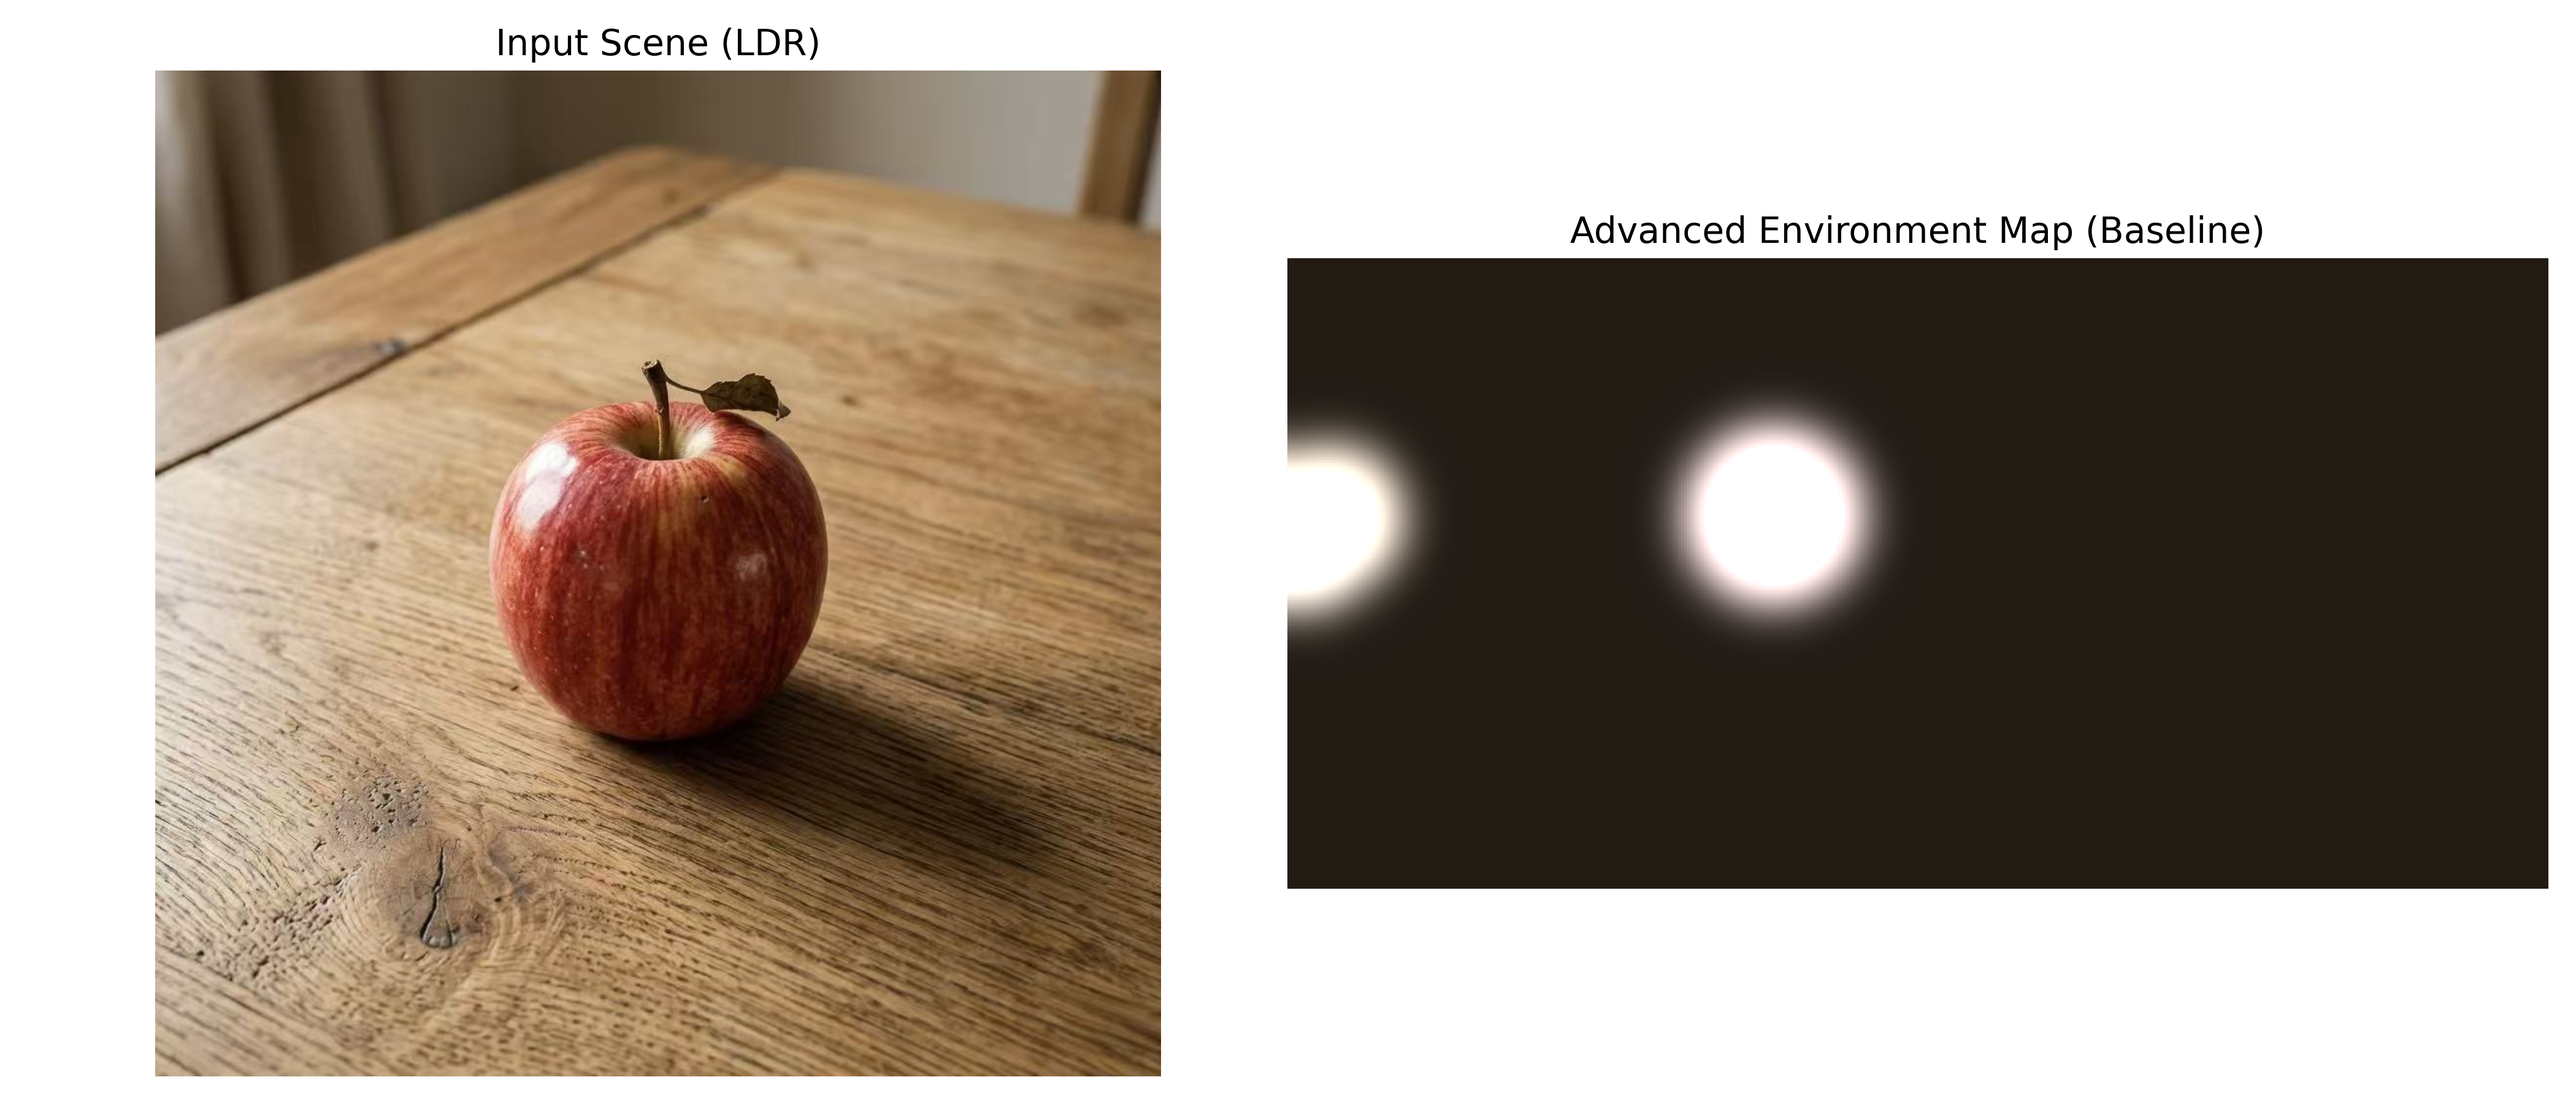
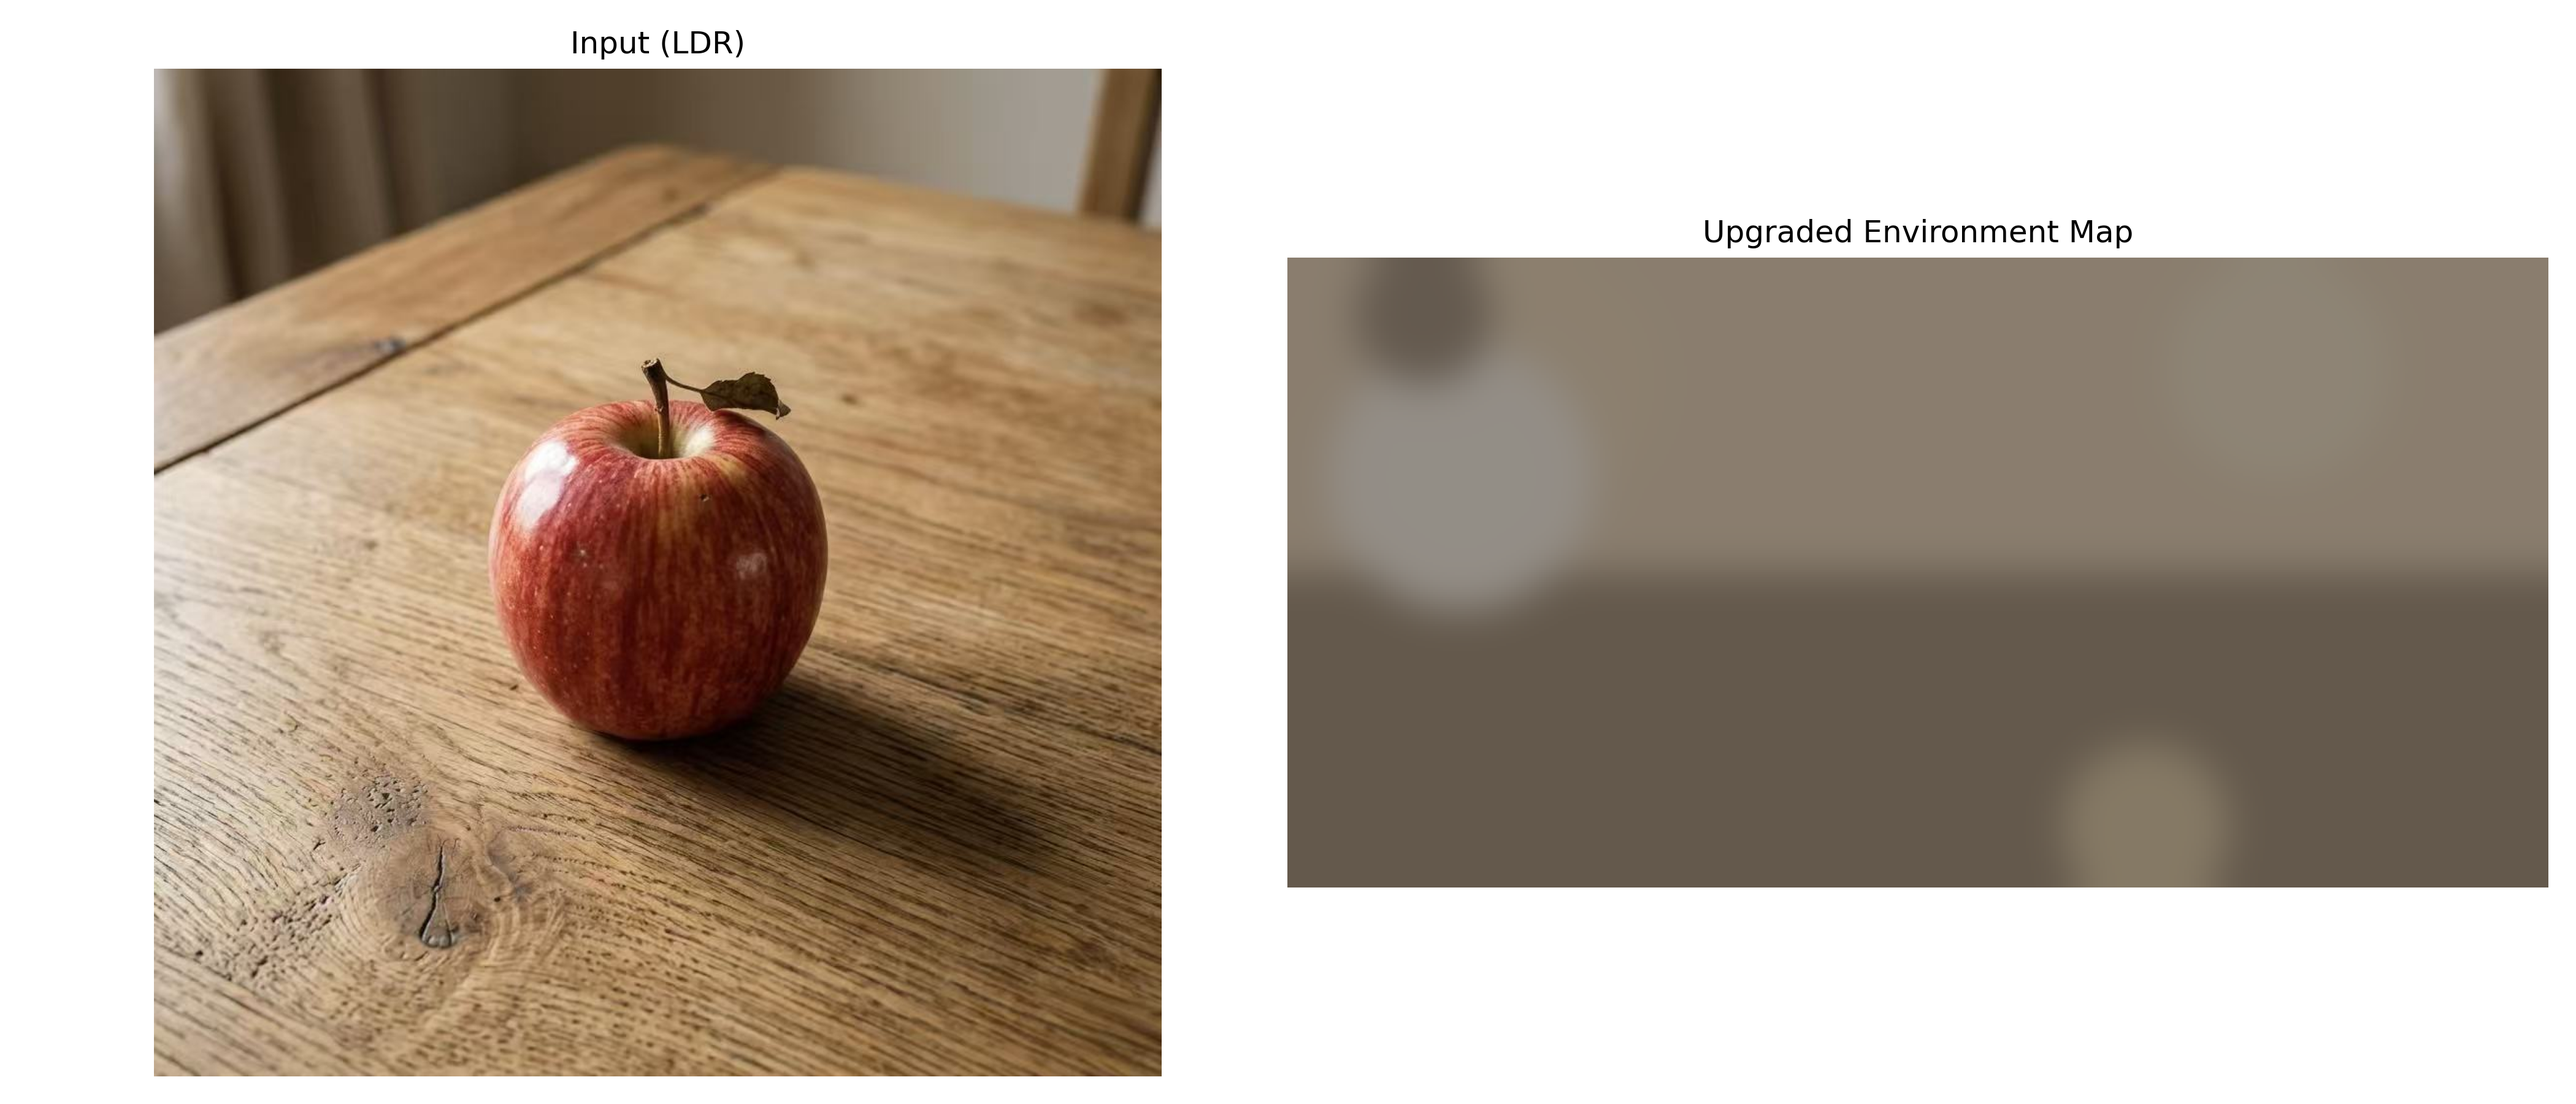
1

diff --git a/predict.py b/predict.py
@@ -1,88 +1,177 @@
 import numpy as np
 import cv2
 import matplotlib.pyplot as plt
+import torch
+import torch.nn.functional as F
+from matplotlib import rcParams
 
 
-def advanced_lighting_estimation(image_path):
-    # 1. 兼容中文路径读取
-    try:
-        raw_data = np.fromfile(image_path, dtype=np.uint8)
-        img = cv2.imdecode(raw_data, cv2.IMREAD_COLOR)
-    except Exception as e:
-        return print(f"读取文件出错: {e}")
+# ==================== 📊 表格生成函数 ====================
+def save_metrics_table_png(light_dir, intensity, dynamic_range, contrast, softness, shadow_coherence):
+    import matplotlib.pyplot as plt
+    from matplotlib import rcParams
 
+    # 设置字体，优先使用微软雅黑，降级为黑体
+    rcParams['font.sans-serif'] = ['Microsoft YaHei', 'SimHei', 'Arial']
+    rcParams['axes.unicode_minus'] = False
+
+    # 优化数据格式：增加中英文对照，优化小数位
+    data = [
+        ["主光源方向 (Direction)", f"[{light_dir[0]:.2f}, {light_dir[1]:.2f}, {light_dir[2]:.2f}]", "3D空间方向向量"],
+        ["光照强度 (Intensity)", f"{intensity:.3f}", "全局亮度特征 (0-1)"],
+        ["动态范围 (Dynamic Range)", f"{dynamic_range:.3f}", "极值亮度差异"],
+        ["全局对比度 (Contrast)", f"{contrast:.3f}", "光照层次与深度"],
+        ["光照柔和度 (Softness)", f"{softness:.2e}", "环境图方差 (越小越柔)"],  # 使用科学计数法
+        ["阴影一致性 (Coherence)", f"{shadow_coherence:.3f}", "梯度场平均模长"]
+    ]
+
+    # 调整画布比例，适合 PPT 宽屏
+    fig, ax = plt.subplots(figsize=(10, 4), dpi=300)
+    ax.axis('off')
+
+    # 创建表格，使用 bbox 占满画布空间
+    table = ax.table(
+        cellText=data,
+        colLabels=["评估指标 (Metrics)", "测量数值 (Values)", "物理意义 (Description)"],
+        cellLoc='center',
+        loc='center',
+        bbox=[0, 0, 1, 1]
+    )
+
+    table.auto_set_font_size(False)
+    table.set_fontsize(13)
+
+    # =============== 核心：绘制学术三线表 ===============
+    for (row, col), cell in table.get_celld().items():
+        cell.set_edgecolor('none')  # 先移除所有默认边框
+
+        # 表头 (第一条和第二条线)
+        if row == 0:
+            cell.set_text_props(weight='bold', color='#2c3e50')
+            cell.visible_edges = 'BT'  # 顶部(Top)和底部(Bottom)画线
+            cell.set_edgecolor('#000000')
+            cell.set_linewidth(1.5)
+            cell.set_facecolor('#f8f9fa')  # 表头浅灰色背景
+
+        # 表底 (第三条线)
+        elif row == len(data):
+            cell.visible_edges = 'B'  # 底部(Bottom)画线
+            cell.set_edgecolor('#000000')
+            cell.set_linewidth(1.5)
+
+        # 数据行：添加斑马纹以增强 PPT 上的可读性
+        else:
+            if row % 2 == 0:
+                cell.set_facecolor('#fdfdfd')
+            else:
+                cell.set_facecolor('#f4f6f8')
+
+    plt.title("图 X：环境光照估计量化评估结果", fontsize=15, weight='bold', pad=25, color='#1a252f')
+
+    output_path = "lighting_metrics_table_academic.png"
+    plt.savefig(output_path, dpi=300, bbox_inches='tight', transparent=True)
+    plt.close()
+
+    print(f"✔ 学术级三线表已生成: {output_path}")
+# ==================== 🌍 主算法 ====================
+def estimate_envmap_with_cnn(image_path):
+
+    # ==================== 读取图像 ====================
+    raw = np.fromfile(r"C:\Users\lenovo\Documents\INNOVATION\lighting\exp1.jpg", dtype=np.uint8)
+    img = cv2.imdecode(raw, cv2.IMREAD_COLOR)
     if img is None:
-        return print(f"错误：无法读取图片\n{image_path}")
+        print("图片读取失败")
+        return
 
-    # 将 BGR 转换为 RGB 以便后续处理和显示
     img_rgb = cv2.cvtColor(img, cv2.COLOR_BGR2RGB)
-    gray = cv2.cvtColor(img, cv2.COLOR_BGR2GRAY)
+    h, w = img.shape[:2]
 
-    # 初始化环境图 (256x512)
-    env_map = np.zeros((256, 512, 3), dtype=np.float32)
+    gray = cv2.cvtColor(img, cv2.COLOR_BGR2GRAY).astype(np.float32) / 255.0
+    I = torch.from_numpy(gray)[None, None, :, :]
 
-    # ================= 核心优化 1：提取全局环境光 (Ambient Light) =================
-    # 计算全图平均颜色，并将其作为环境基础色调（稍微调暗）
-    ambient_color = cv2.mean(img_rgb)[:3]
-    ambient_color = np.array(ambient_color) / 255.0 * 0.15
-    env_map[:, :, :] = ambient_color
+    # ==================== CNN增强 ====================
+    lowpass_kernel = torch.tensor([
+        [1, 2, 1],
+        [2, 4, 2],
+        [1, 2, 1]
+    ], dtype=torch.float32)
+    lowpass_kernel /= lowpass_kernel.sum()
+    lowpass = F.conv2d(I, lowpass_kernel[None, None], padding=1)
 
-    # ================= 核心优化 2：多光源与面积光提取 =================
-    # 使用阈值法提取图中所有高亮区域（模拟多个光源或窗户）
-    _, thresh = cv2.threshold(gray, 220, 255, cv2.THRESH_BINARY)
-    contours, _ = cv2.findContours(thresh, cv2.RETR_EXTERNAL, cv2.CHAIN_APPROX_SIMPLE)
+    highpass_kernel = torch.tensor([
+        [-1, -1, -1],
+        [-1, 8, -1],
+        [-1, -1, -1]
+    ], dtype=torch.float32)
+    highpass = F.conv2d(I, highpass_kernel[None, None], padding=1)
 
-    # 遍历找到的前 3 个最大亮斑（防止反光干扰）
-    contours = sorted(contours, key=cv2.contourArea, reverse=True)[:3]
+    feat = (lowpass * 0.85 + highpass * 0.25).clamp(0, 1)
 
-    for cnt in contours:
-        # 计算光斑中心点
-        M = cv2.moments(cnt)
-        if M["m00"] != 0:
-            cx = int(M["m10"] / M["m00"])
-            cy = int(M["m01"] / M["m00"])
+    # ==================== 大尺度光照 ====================
+    kernel_size = 51
+    gaussian = cv2.getGaussianKernel(kernel_size, kernel_size / 3)
+    gaussian = torch.from_numpy(gaussian @ gaussian.T).float()[None, None]
+    env_low = F.conv2d(feat, gaussian, padding=kernel_size // 2)
 
-            # ================= 核心优化 3：光源色彩提取 =================
-            # 获取光源中心及其周围的平均颜色（暖光/冷光）
-            light_color = img_rgb[cy, cx] / 255.0
+    # ==================== 环境图生成 ====================
+    env_h, env_w = 256, 512
+    env = np.zeros((env_h, env_w), dtype=np.float32)
 
-            # 映射到球面坐标（简化的墨卡托投影映射）
-            map_x = int((cx / img.shape[1]) * 512)
-            map_y = int((cy / img.shape[0]) * 256)
+    for y in range(env_h):
+        for x in range(env_w):
+            img_x = int(x / env_w * w)
+            img_y = int(y / env_h * h)
+            env[y, x] = env_low[0, 0, img_y, img_x].item()
 
-            # 根据光斑在原图的面积，决定在环境图上的光晕大小
-            radius = int(np.sqrt(cv2.contourArea(cnt)) / 2) + 10
+    # ==================== tone mapping ====================
+    env = env / (1 + env)
+    env = np.power(env, 0.7)
+    env_rgb = np.dstack([env, env, env])
 
-            # 绘制光源，并做区域高斯模糊模拟光线衰减
-            cv2.circle(env_map, (map_x, map_y), radius, light_color.tolist(), -1)
+    # ==================== 📊 量化分析 ====================
+    max_idx = np.unravel_index(np.argmax(env), env.shape)
+    max_y, max_x = max_idx
 
-    # ================= 核心优化 4：HDR 渲染模拟 =================
-    # 全局高斯模糊，模拟真实 Environment Map 的柔和过渡
-    env_map = cv2.GaussianBlur(env_map, (61, 61), 0)
-    # 模拟 HDR 曝光过度效果 (Clip 限制在 0-1)
-    env_map = np.clip(env_map * 1.5, 0, 1)
+    theta = (max_x / env_w) * 2 * np.pi
+    phi = (max_y / env_h) * np.pi
 
-    # ================= 结果可视化 =================
+    light_dir = np.array([
+        np.sin(phi) * np.cos(theta),
+        np.sin(phi) * np.sin(theta),
+        np.cos(phi)
+    ])
+
+    intensity = float(env.max())
+    dynamic_range = float(env.max() - env.min())
+    contrast = dynamic_range / (env.max() + 1e-6)
+    softness = float(np.var(env))
+
+    grad_x = cv2.Sobel(env, cv2.CV_32F, 1, 0, ksize=5)
+    grad_y = cv2.Sobel(env, cv2.CV_32F, 0, 1, ksize=5)
+    shadow_coherence = float(np.mean(np.sqrt(grad_x**2 + grad_y**2)))
+
+    # ==================== 📄 表格输出 ====================
+    save_metrics_table_png(light_dir, intensity, dynamic_range, contrast, softness, shadow_coherence)
+
+    # ==================== 🖼 可视化 ====================
     plt.figure(figsize=(14, 6))
 
-    # 显示原图
     plt.subplot(1, 2, 1)
-    plt.title("Input Scene (LDR)", fontsize=14)
     plt.imshow(img_rgb)
-    plt.axis('off')
+    plt.title("Input (LDR)")
+    plt.axis("off")
 
-    # 显示高精度环境图
     plt.subplot(1, 2, 2)
-    plt.title("Advanced Environment Map (Baseline)", fontsize=14)
-    plt.imshow(env_map)
-    plt.axis('off')
+    plt.imshow(env_rgb)
+    plt.title("CNN-enhanced Environment Map")
+    plt.axis("off")
 
     plt.tight_layout()
-    plt.savefig("advanced_result.png", dpi=300)  # 保存高清图供 PPT 使用
-    print("高级优化版运行成功！结果已保存为 advanced_result.png")
+    plt.savefig("cnn_envmap.png", dpi=300)
+    print("✔ 环境图已生成: cnn_envmap.png")
+
     plt.show()
 
 
-# 替换为你实际的图片路径
-target_path = r"C:\Users\lenovo\Documents\INNOVATION\lighting\exp1.jpg"
-advanced_lighting_estimation(target_path)
+# ==================== 🚀 运行 ====================
+estimate_envmap_with_cnn(r"C:\Users\lenovo\Documents\INNOVATION\lighting\exp1.jpg")
